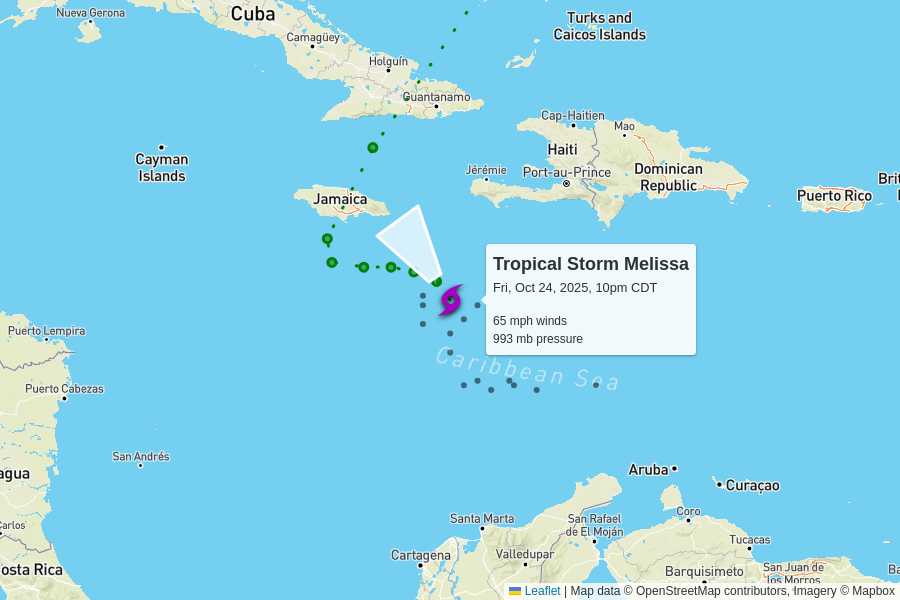
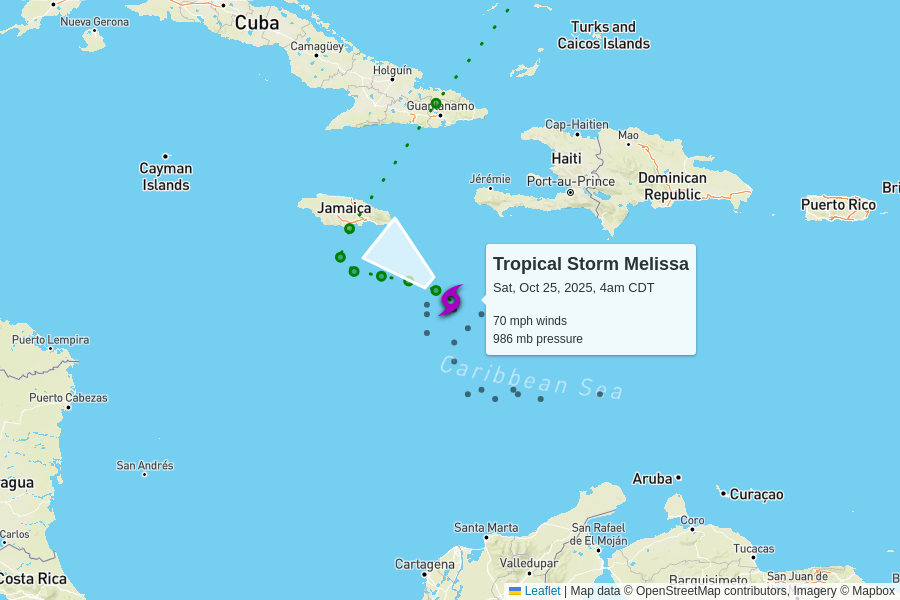
automatic update

diff --git a/docs/index.html b/docs/index.html
@@ -102,7 +102,7 @@
         <td colspan="6" class="storm category-0" >
           <h2>
             Tropical Storm Melissa
-            <p class="updated">last updated <span data-time>2025-10-25T03:00:00.000Z</span></p>
+            <p class="updated">last updated <span data-time>2025-10-25T09:00:00.000Z</span></p>
           </h2>
         </td>
       </tr>
@@ -117,12 +117,12 @@
       </tr>
       <tr>
         <td class="spacer"></td>
-        <td>65 mph<br>0 mph since last update</td>
-        <td>993 mb<br>-2 mb since last update</td>
+        <td>70 mph<br>+5 mph since last update</td>
+        <td>986 mb<br>-7 mb since last update</td>
         <td>
           3 mph to the northwest
           <br/>
-          <span style="display: inline-block; font-size: 1.5em; transform: rotate(325deg);">↑</span>
+          <span style="display: inline-block; font-size: 1.5em; transform: rotate(310deg);">↑</span>
         </td>
         <td><a href="https://raw.githubusercontent.com/mgwalker/atlantic-hurricanes/main/data/csv/AL132025.csv">AL132025.csv</a></td>
         <td><a href="https://www.nhc.noaa.gov/archive/2025/MELISSA.shtml?">NHC advisories</a></td>
